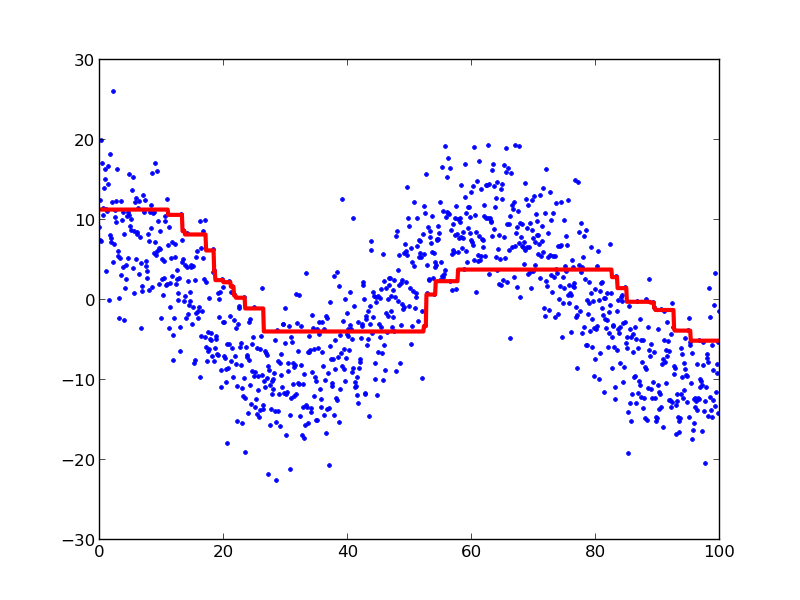
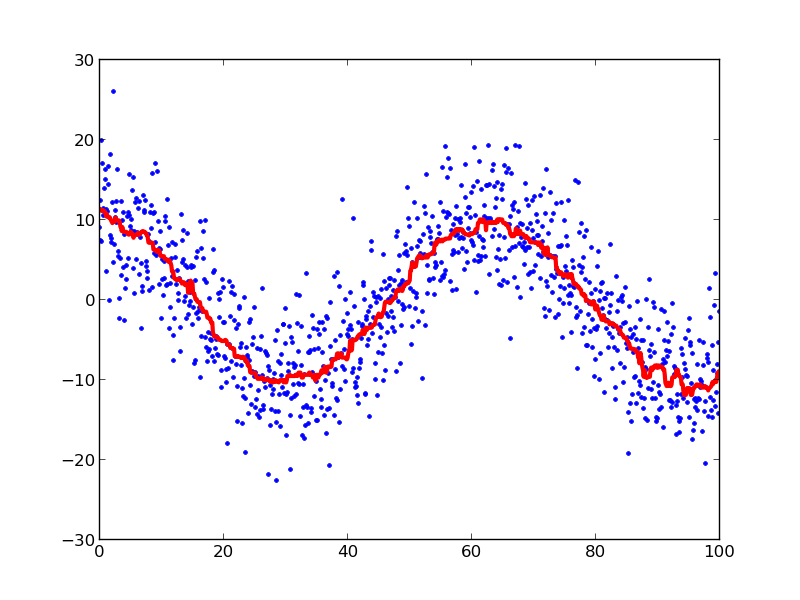
working with references let you get unexpected results

diff --git a/problemSets/set7/example_4.py b/problemSets/set7/example_4.py
@@ -5,10 +5,10 @@
 import numpy as np
 np.random.seed(12345)  # ensures the random values are always the same
 import matplotlib.pyplot as plt
-
+from copy import deepcopy
 
 def median_filter(x, y, width):
-    y_new = y
+    y_new = deepcopy(y)
     for i in range(len(x)):
         y_new[i] = np.median(y[(x > x[i] - width * 0.5) &
                                (x < x[i] + width * 0.5)])
